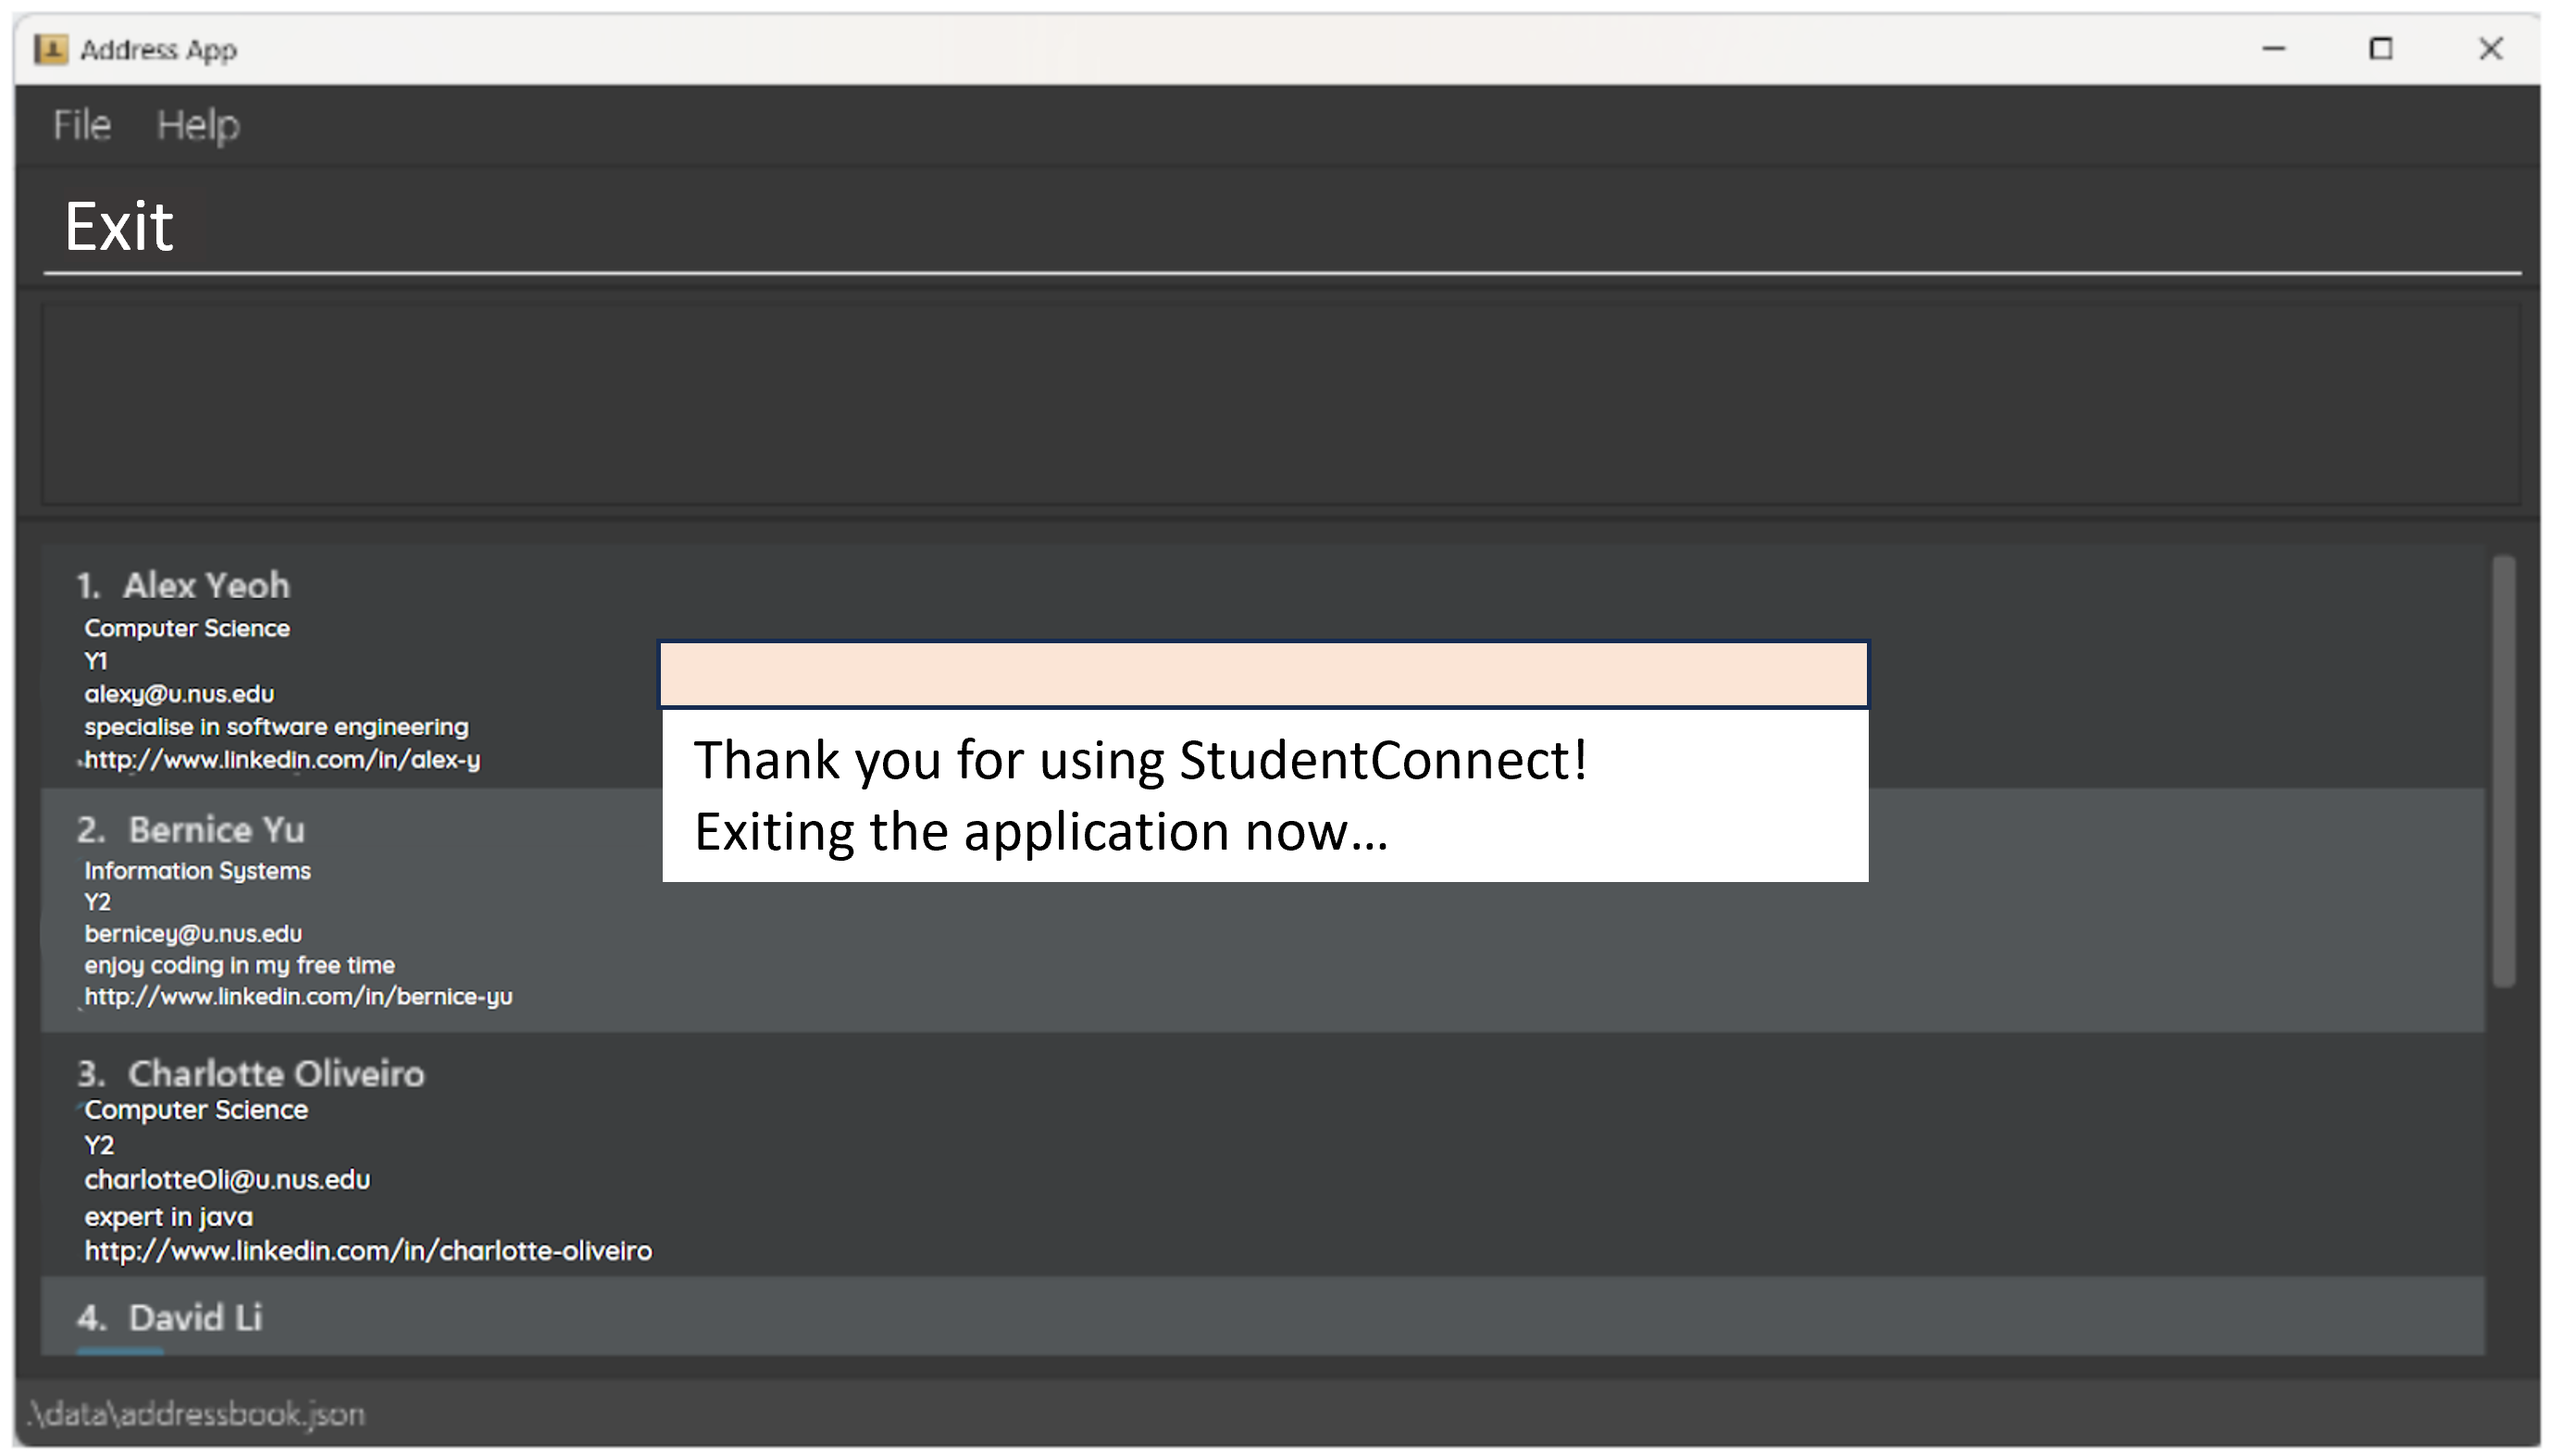
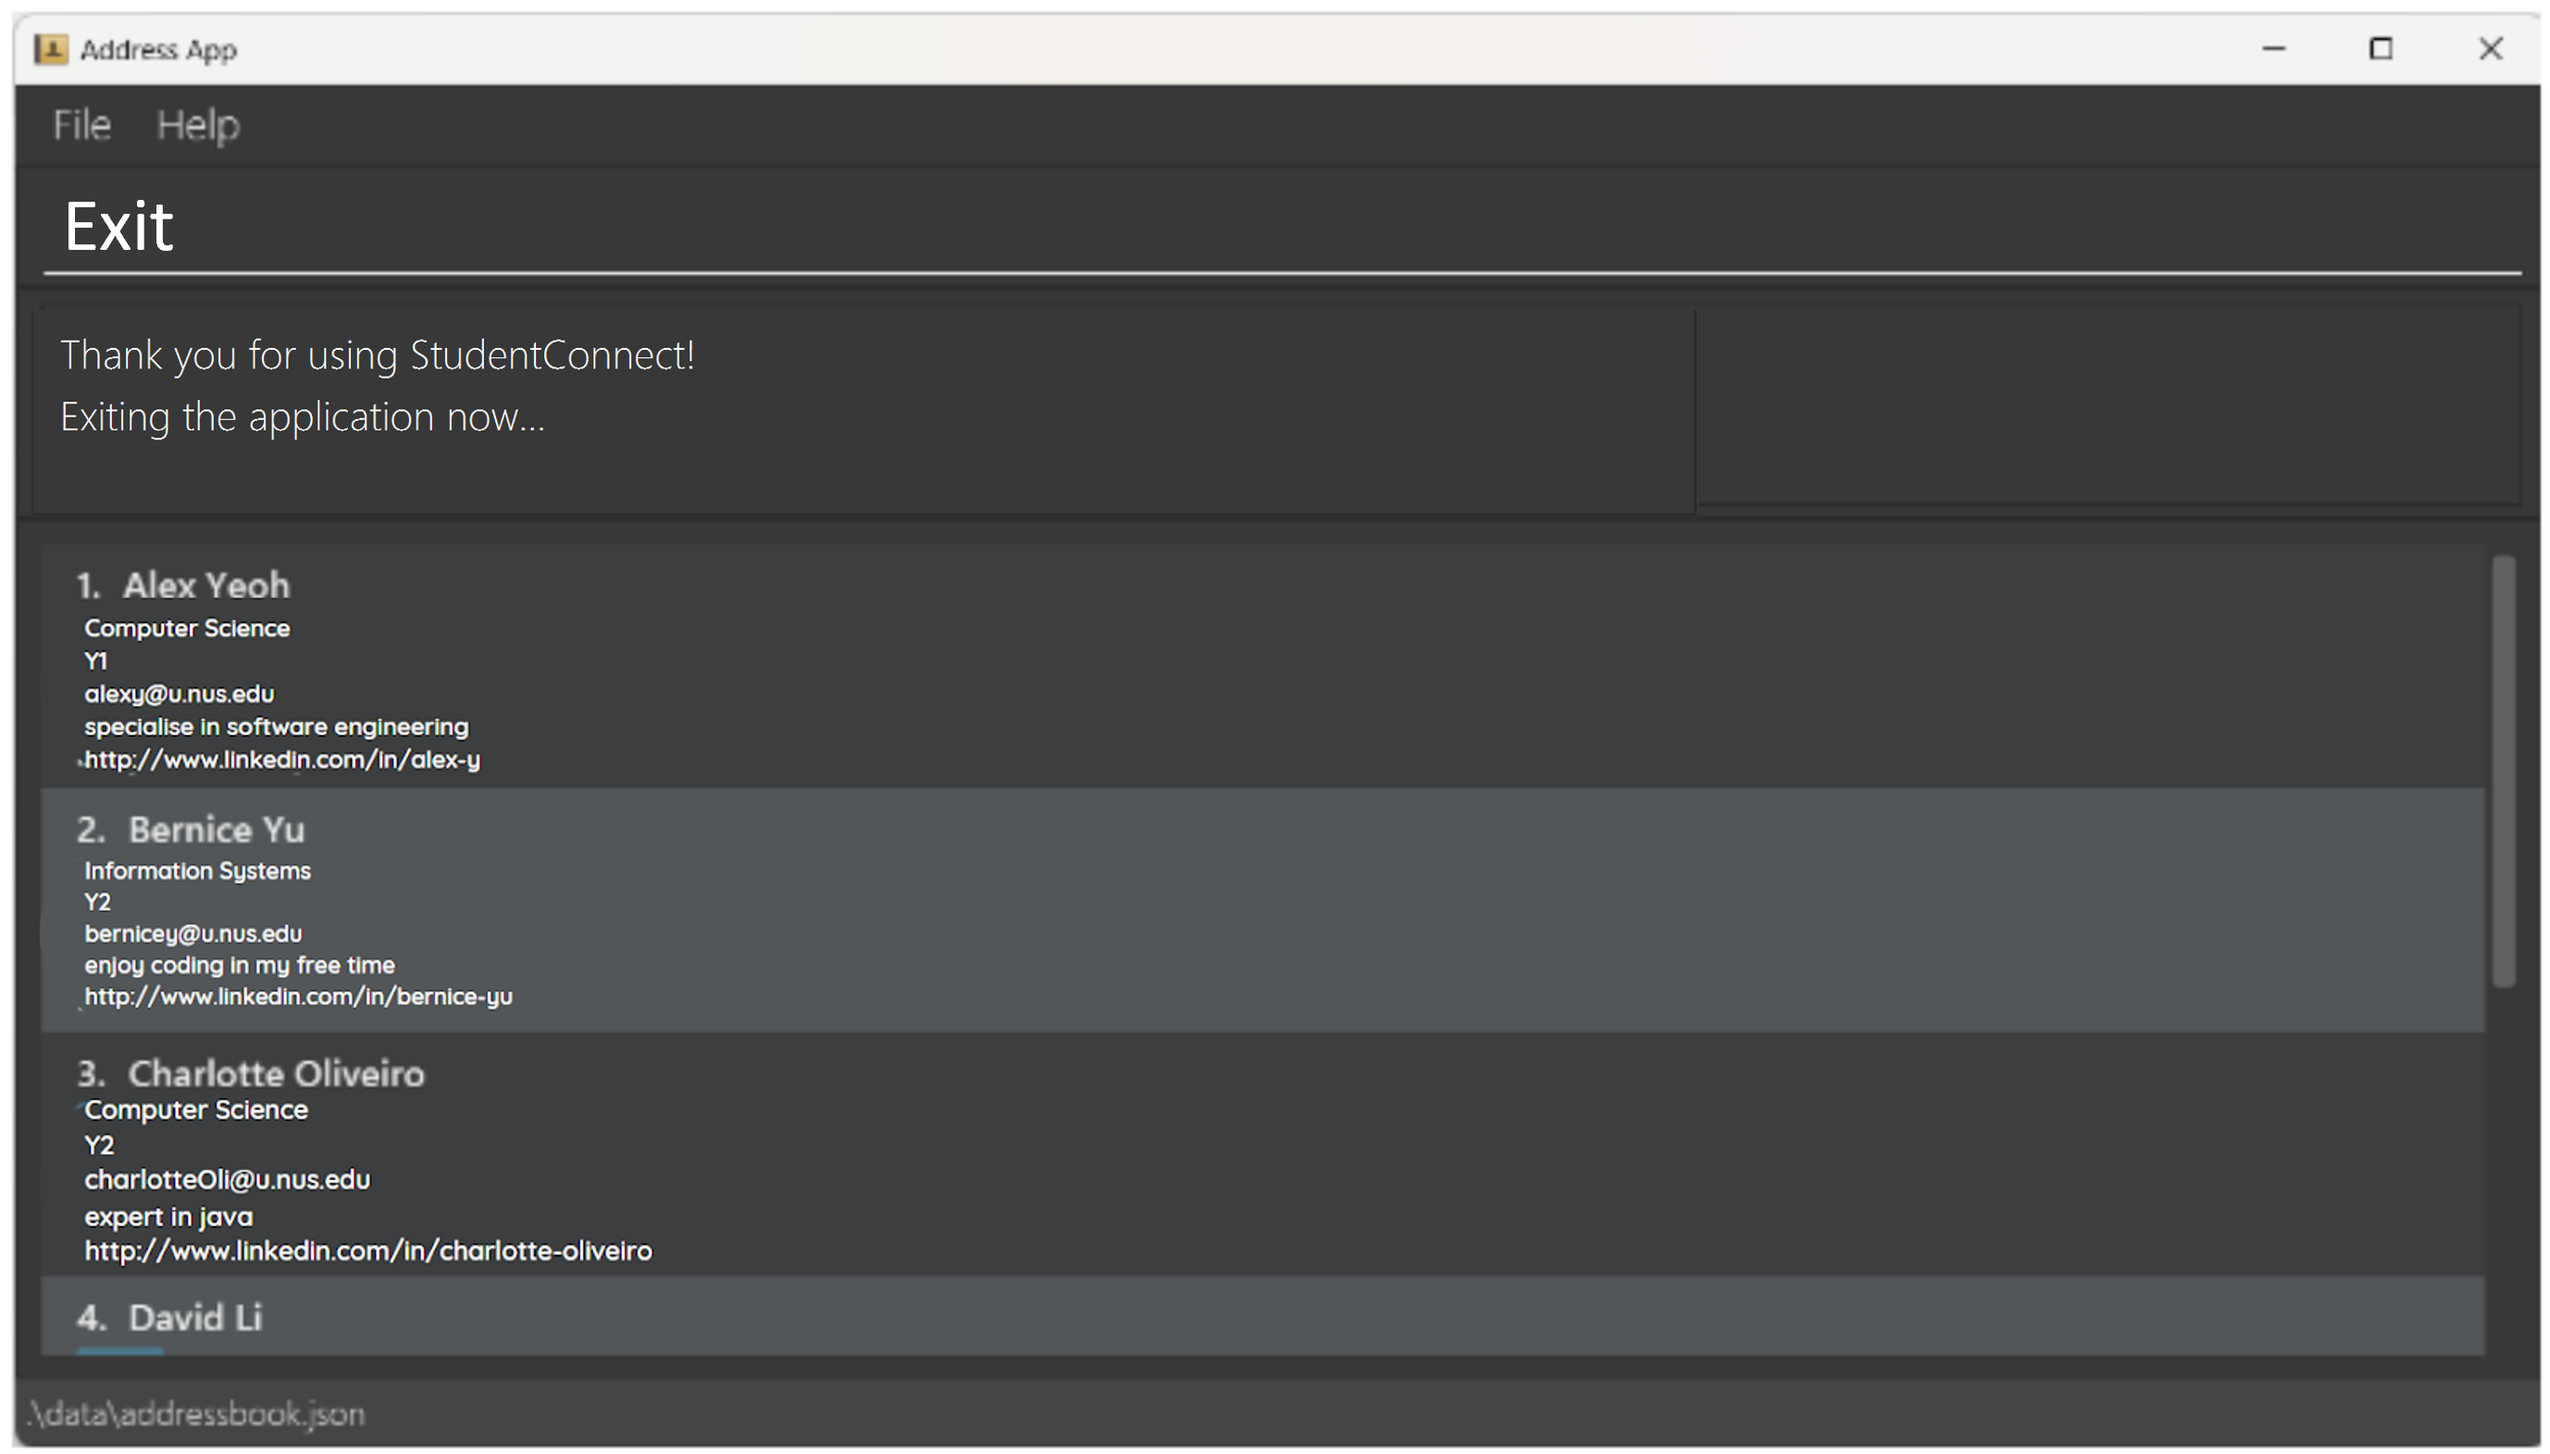
Change exit feature so exit message is displayed before exiting

diff --git a/src/main/java/seedu/address/ui/MainWindow.java b/src/main/java/seedu/address/ui/MainWindow.java
@@ -2,6 +2,7 @@ package seedu.address.ui;
 
 import java.util.logging.Logger;
 
+import javafx.animation.PauseTransition;
 import javafx.event.ActionEvent;
 import javafx.fxml.FXML;
 import javafx.scene.control.MenuItem;
@@ -10,6 +11,7 @@ import javafx.scene.input.KeyCombination;
 import javafx.scene.input.KeyEvent;
 import javafx.scene.layout.StackPane;
 import javafx.stage.Stage;
+import javafx.util.Duration;
 import seedu.address.commons.core.GuiSettings;
 import seedu.address.commons.core.LogsCenter;
 import seedu.address.logic.Logic;
@@ -156,11 +158,15 @@ public class MainWindow extends UiPart<Stage> {
      */
     @FXML
     private void handleExit() {
-        GuiSettings guiSettings = new GuiSettings(primaryStage.getWidth(), primaryStage.getHeight(),
-                (int) primaryStage.getX(), (int) primaryStage.getY());
-        logic.setGuiSettings(guiSettings);
-        helpWindow.hide();
-        primaryStage.hide();
+        PauseTransition pause = new PauseTransition(Duration.seconds(2));
+        pause.setOnFinished(event -> {
+            GuiSettings guiSettings = new GuiSettings(primaryStage.getWidth(), primaryStage.getHeight(),
+                    (int) primaryStage.getX(), (int) primaryStage.getY());
+            logic.setGuiSettings(guiSettings);
+            helpWindow.hide();
+            primaryStage.hide();
+        });
+        pause.play();
     }
 
     public PersonListPanel getPersonListPanel() {

diff --git a/src/main/java/seedu/address/logic/commands/ExitCommand.java b/src/main/java/seedu/address/logic/commands/ExitCommand.java
@@ -9,7 +9,8 @@ public class ExitCommand extends Command {
 
     public static final String COMMAND_WORD = "exit";
 
-    public static final String MESSAGE_EXIT_ACKNOWLEDGEMENT = "Exiting Address Book as requested ...";
+    public static final String MESSAGE_EXIT_ACKNOWLEDGEMENT = "Thank you for using StudentConnect!\n" +
+            "Exiting the application now…";
 
     @Override
     public CommandResult execute(Model model) {
